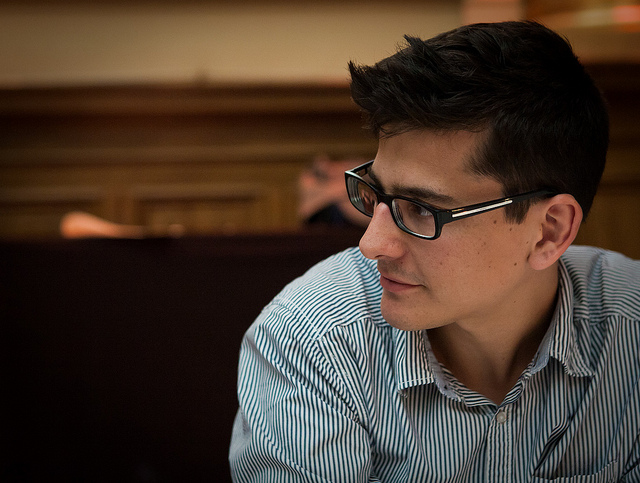
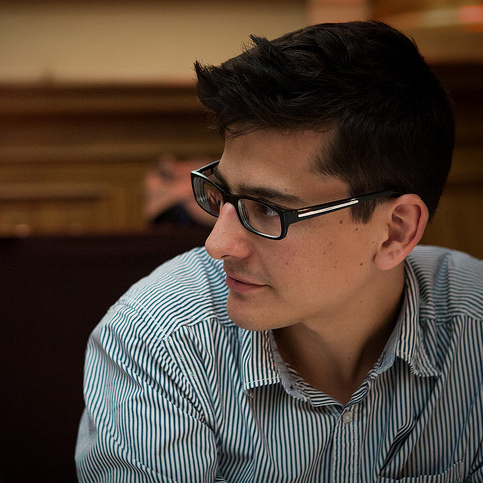
updating anwar image

diff --git a/index.html b/index.html
@@ -69,7 +69,7 @@
         
         
         <div class="container">
-            <div class="navbar-header page-scroll"><img width=28px src="images/Droplet_trans.png"></div>
+            <div class="navbar-header page-scroll"><img width=28px  margin-right: 3px; src="images/Droplet_trans.png"></div>
             <div class="navbar-header page-scroll">
                 <button type="button" class="navbar-toggle" data-toggle="collapse" data-target=".navbar-ex1-collapse">
                     <span class="sr-only">Toggle navigation</span>
@@ -205,7 +205,7 @@
                                     After definded intervals data streams become immutable, such that even compromise of secret keys does not allow modification of previous stream data.
                                 </pr>
                             </div>
-                        </div>                        
+                        </div>
                     </div>
                     
                     
@@ -283,7 +283,7 @@
 
                             </h4>
                             <div id="image" style="margin: 0px 10px 10px 0px; text-align:left;">
-                                <img class="img-rounded" width=150px src="images/anwar_avatar.png">
+                                <img class="img-rounded" width=150px src="images/anwar_avatar.jpg">
                                     </div>
                             <pr>Anwar Hithnawi is a researcher at the Distributed Systems Group at ETH Zurich.</pr></br>
                         </div>
